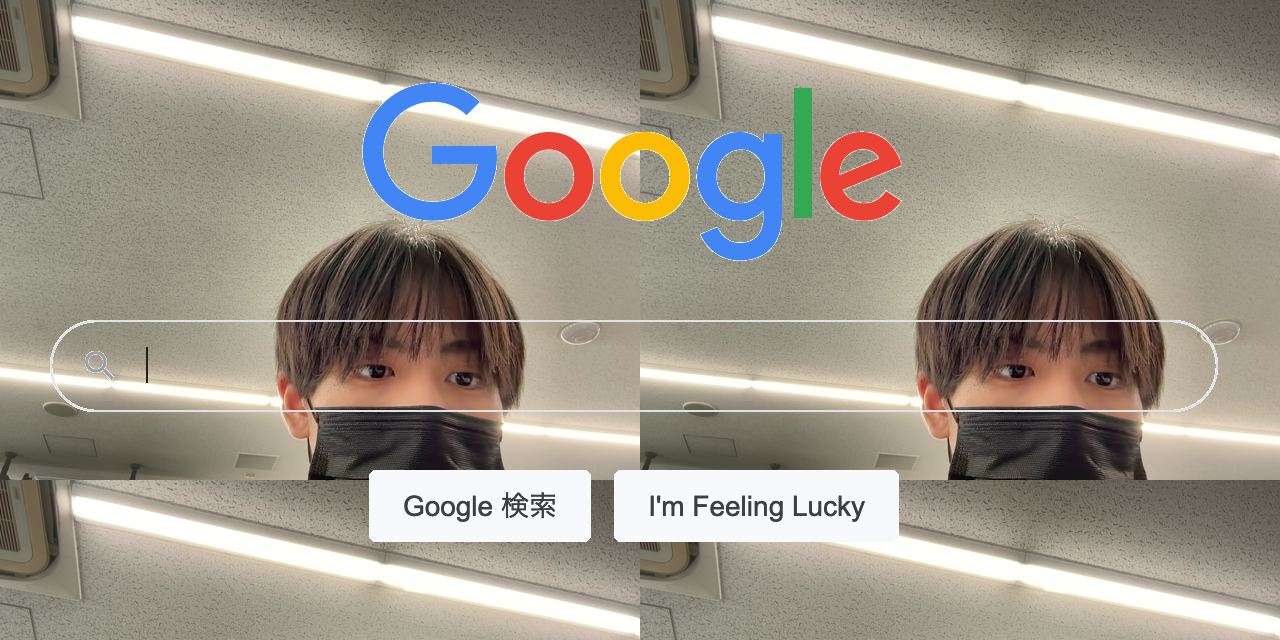
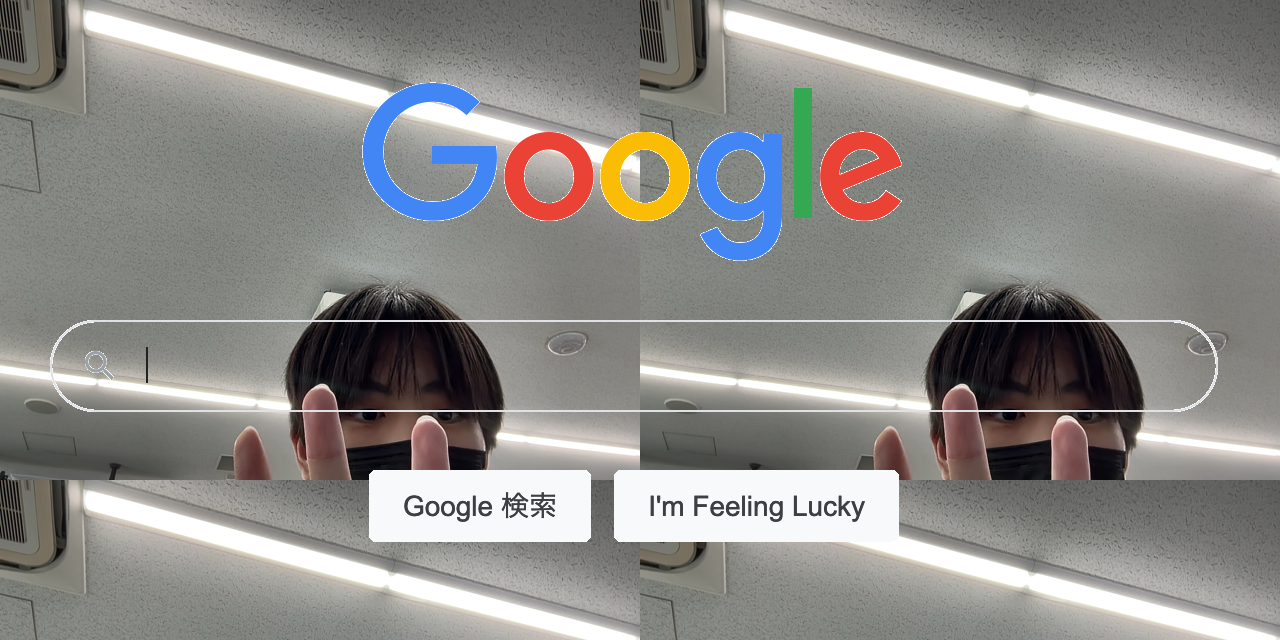
main.py 作りました
main.pyを変更
GUIの表示，カメラ担当，画像合成担当
の処理

diff --git a/oop2-2025-05-G03/main.py b/oop2-2025-05-G03/main.py
@@ -1,4 +1,270 @@
-from src.lecture05_k24025 import lecture05_01
+import sys
+import cv2
+import numpy as np
+from PySide6.QtWidgets import (
+    QApplication, QMainWindow, QLabel, QPushButton, 
+    QVBoxLayout, QHBoxLayout, QWidget, QMessageBox, QFrame
+)
+from PySide6.QtGui import QPixmap, QImage
+from PySide6.QtCore import Qt, QTimer
+
+# =================================================================
+# 1. 画像合成クラス (lecture05_k24025.py のロジックを移植)
+# =================================================================
+class ImageProcessor:
+    @staticmethod
+    def synthesize(base_img_path: str, capture_img: np.ndarray) -> np.ndarray:
+        """
+        背景画像の白色部分をキャプチャ画像で置換する処理
+        """
+        # 背景画像 (google.png) の読み込み
+        google_img = cv2.imread(base_img_path)
+        if google_img is None:
+            raise FileNotFoundError(f"{base_img_path} が見つかりません。")
+
+        # サイズ取得
+        g_hight, g_width, _ = google_img.shape
+        c_hight, c_width, _ = capture_img.shape
+
+        # 加工用にコピー
+        result_img = google_img.copy()
+
+        # lecture05_k24025.py のロジック: ピクセルごとに判定して置換
+        # (処理速度向上のため本来はNumpy機能を使いますが、講義のロジックを尊重します)
+        for x in range(g_width):
+            for y in range(g_hight):
+                # BGRの順で取得
+                b, g, r = result_img[y, x]
+                
+                # もし白色(255,255,255)だったら置き換える
+                if (b, g, r) == (255, 255, 255):
+                    # キャプチャ画像をグリッド状に並べる計算
+                    cap_x = x % c_width
+                    cap_y = y % c_hight
+                    
+                    # 画素の置換
+                    result_img[y, x] = capture_img[cap_y, cap_x]
+        
+        return result_img
+
+# =================================================================
+# 2. カメラ管理クラス (lecture05_camera_image_capture.py をGUI用に改良)
+# =================================================================
+class CameraManager:
+    def __init__(self, camera_id=0):
+        self.cap = cv2.VideoCapture(camera_id)
+        self.cap.set(cv2.CAP_PROP_FRAME_WIDTH, 640)
+        self.cap.set(cv2.CAP_PROP_FRAME_HEIGHT, 480)
+        
+        if not self.cap.isOpened():
+            # ID 0で開けない場合、1を試す（Macや一部PC用）
+            self.cap = cv2.VideoCapture(1)
+            self.cap.set(cv2.CAP_PROP_FRAME_WIDTH, 640)
+            self.cap.set(cv2.CAP_PROP_FRAME_HEIGHT, 480)
+
+    def get_frame(self):
+        """
+        カメラから1フレーム取得し、以下の2つを返す:
+        1. raw_frame: 合成用の生データ
+        2. display_frame: 画面表示用のターゲットマーク付きデータ
+        """
+        ret, frame = self.cap.read()
+        if not ret:
+            return None, None
+
+        # 合成用には加工前の画像を使う
+        raw_frame = frame
+
+        # 表示用にはターゲットマークを描画する（コピーを作成）
+        display_frame = np.copy(frame)
+        rows, cols, _ = display_frame.shape
+        center = (int(cols / 2), int(rows / 2))
+        
+        # 赤いターゲットマーク描画
+        cv2.circle(display_frame, center, 30, (0, 0, 255), 3)
+        cv2.circle(display_frame, center, 60, (0, 0, 255), 3)
+        cv2.line(display_frame, (center[0], center[1] - 80), (center[0], center[1] + 80), (0, 0, 255), 3)
+        cv2.line(display_frame, (center[0] - 80, center[1]), (center[0] + 80, center[1]), (0, 0, 255), 3)
+
+        # 左右反転（鏡のように表示するため）
+        display_frame = cv2.flip(display_frame, 1)
+        
+        # ※合成用(raw_frame)も左右反転させておくと、見たままの向きで合成されます
+        raw_frame = cv2.flip(raw_frame, 1)
+
+        return raw_frame, display_frame
+
+    def stop(self):
+        if self.cap.isOpened():
+            self.cap.release()
+
+# =================================================================
+# 3. メインウィンドウ (GUI)
+# =================================================================
+class MainWindow(QMainWindow):
+    def __init__(self):
+        super().__init__()
+        self.setWindowTitle("K24025 画像合成アプリ (GUI)")
+        self.resize(1000, 600)
+
+        # カメラ管理クラスのインスタンス化
+        self.camera = CameraManager()
+        
+        # データ保持用
+        self.captured_frame = None  # 撮影した静止画データ
+
+        # GUI構築
+        self.init_ui()
+
+        # タイマー設定 (約30fps = 33msごとに画面更新)
+        self.timer = QTimer(self)
+        self.timer.timeout.connect(self.update_camera_view)
+        self.timer.start(33)
+
+    def init_ui(self):
+        """画面レイアウトの作成"""
+        self.central_widget = QWidget()
+        self.setCentralWidget(self.central_widget)
+        
+        main_layout = QHBoxLayout(self.central_widget)
+
+        # --- 左側：カメラエリア ---
+        left_layout = QVBoxLayout()
+        
+        title_cam = QLabel("1. カメラ映像")
+        title_cam.setFont(self.get_bold_font())
+        
+        self.lbl_camera_display = QLabel("カメラ起動中...")
+        self.lbl_camera_display.setFixedSize(640, 480)
+        self.lbl_camera_display.setFrameShape(QFrame.Box)
+        self.lbl_camera_display.setAlignment(Qt.AlignCenter)
+        self.lbl_camera_display.setStyleSheet("background-color: #222; color: #fff;")
+
+        self.btn_capture = QPushButton("撮影 (Capture)")
+        self.btn_capture.setMinimumHeight(50)
+        self.btn_capture.clicked.connect(self.on_capture_clicked)
+
+        left_layout.addWidget(title_cam)
+        left_layout.addWidget(self.lbl_camera_display)
+        left_layout.addWidget(self.btn_capture)
+
+        # --- 右側：結果エリア ---
+        right_layout = QVBoxLayout()
+
+        title_res = QLabel("2. 合成結果")
+        title_res.setFont(self.get_bold_font())
+
+        self.lbl_result_display = QLabel("ここに結果が表示されます")
+        self.lbl_result_display.setFixedSize(640, 480)
+        self.lbl_result_display.setFrameShape(QFrame.Box)
+        self.lbl_result_display.setAlignment(Qt.AlignCenter)
+        self.lbl_result_display.setStyleSheet("background-color: #eee; color: #555;")
+
+        self.btn_process = QPushButton("合成実行 (Process)")
+        self.btn_process.setMinimumHeight(50)
+        self.btn_process.setEnabled(False)
+        self.btn_process.clicked.connect(self.on_process_clicked)
+
+        right_layout.addWidget(title_res)
+        right_layout.addWidget(self.lbl_result_display)
+        right_layout.addWidget(self.btn_process)
+
+        main_layout.addLayout(left_layout)
+        main_layout.addLayout(right_layout)
+
+        self.status_bar = self.statusBar()
+        self.status_bar.showMessage("アプリ起動完了")
+
+    def get_bold_font(self):
+        font = self.font()
+        font.setBold(True)
+        font.setPointSize(12)
+        return font
+
+    def update_camera_view(self):
+        """タイマーによって定期的に呼ばれ、カメラ映像を更新する"""
+        # 生データと表示用データを取得
+        raw, display = self.camera.get_frame()
+        
+        if display is not None:
+            # 最新のフレームを一時保存（撮影ボタンが押されたとき用）
+            self.current_raw_frame = raw
+            
+            # GUI表示用に変換
+            qt_img = self.convert_cv_to_qt(display)
+            self.lbl_camera_display.setPixmap(qt_img)
+
+    def on_capture_clicked(self):
+        """撮影ボタン押下時：現在のフレームを保存"""
+        if hasattr(self, 'current_raw_frame') and self.current_raw_frame is not None:
+            self.captured_frame = self.current_raw_frame
+            
+            self.status_bar.showMessage("キャプチャしました。合成ボタンを押してください。")
+            self.btn_process.setEnabled(True)
+            
+            # 右側の画面に、キャプチャした画像をプレビュー表示
+            preview_img = self.convert_cv_to_qt(self.captured_frame)
+            self.lbl_result_display.setPixmap(preview_img)
+        else:
+            QMessageBox.warning(self, "エラー", "カメラ映像が取得できていません。")
+
+    def on_process_clicked(self):
+        """合成実行ボタン押下時"""
+        if self.captured_frame is None:
+            return
+
+        self.status_bar.showMessage("処理中...")
+        # GUIを固まらせないために本来は別スレッド推奨だが、今回は簡易的に処理
+        QApplication.processEvents() 
+        
+        try:
+            # 画像合成処理 (images/google.png が必要)
+            result_img = ImageProcessor.synthesize("images/google.png", self.captured_frame)
+            
+            # 結果表示
+            qt_result = self.convert_cv_to_qt(result_img)
+            self.lbl_result_display.setPixmap(qt_result)
+            
+            # 保存
+            save_path = 'output_images/k24025_result.png'
+            # フォルダがない場合のエラー回避（任意）
+            import os
+            os.makedirs('output_images', exist_ok=True)
+            
+            cv2.imwrite(save_path, result_img)
+            
+            self.status_bar.showMessage(f"保存完了: {save_path}")
+            QMessageBox.information(self, "完了", f"合成が完了し保存しました！\n{save_path}")
+            
+        except Exception as e:
+            QMessageBox.critical(self, "処理エラー", f"エラーが発生しました:\n{e}")
+            self.status_bar.showMessage("エラー発生")
+
+    def convert_cv_to_qt(self, cv_img):
+        """OpenCV画像(BGR)をPySide画像(QPixmap)に変換"""
+        if cv_img is None: return QPixmap()
+        
+        # BGR -> RGB 変換
+        rgb_image = cv2.cvtColor(cv_img, cv2.COLOR_BGR2RGB)
+        
+        h, w, ch = rgb_image.shape
+        bytes_per_line = ch * w
+        
+        # QImage作成
+        qimg = QImage(rgb_image.data, w, h, bytes_per_line, QImage.Format_RGB888)
+        
+        # 表示ラベルのサイズに合わせて縮小（アスペクト比保持）
+        p = QPixmap.fromImage(qimg).scaled(640, 480, Qt.KeepAspectRatio)
+        return p
+
+    def closeEvent(self, event):
+        """ウィンドウを閉じるときの処理"""
+        self.timer.stop()
+        self.camera.stop()
+        event.accept()
 
 if __name__ == "__main__":
-    lecture05_01()
+    app = QApplication(sys.argv)
+    window = MainWindow()
+    window.show()
+    sys.exit(app.exec())
